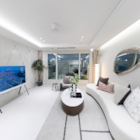
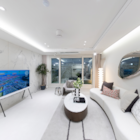
수정14

diff --git a/skin.js b/skin.js
@@ -1,7 +1,7 @@
 // Garden Gnome Software - Skin
 // Pano2VR 7.0.10/20025
 // Filename: ??VR ?? - ?????.ggsk
-// Generated 2024-03-28T17:35:34
+// Generated 2024-03-28T17:51:03
 
 function pano2vrSkin(player,base) {
 	player.addVariable('vis_dropdown', 2, false, { ignoreInState: 0  });
@@ -694,7 +694,7 @@ function pano2vrSkin(player,base) {
 		}
 		me._text_1b.logicBlock_textcolor();
 		me._text_1b.onclick=function (e) {
-			player.openNext("{node17}","");
+			player.openNext("{node12}","");
 		}
 		me._text_1b.ggUpdatePosition=function (useTransition) {
 		}
@@ -4863,7 +4863,7 @@ function pano2vrSkin(player,base) {
 		hs+='height : 30px;';
 		hs+='left : calc(50% - ((100% + 0px) / 2) + 0px);';
 		hs+='position : absolute;';
-		hs+='top : 90px;';
+		hs+='top : 180px;';
 		hs+='visibility : inherit;';
 		hs+='width : 100%;';
 		hs+='pointer-events:none;';
@@ -5671,7 +5671,7 @@ function pano2vrSkin(player,base) {
 		hs+='height : 30px;';
 		hs+='left : calc(50% - ((100% + 0px) / 2) + 0px);';
 		hs+='position : absolute;';
-		hs+='top : 180px;';
+		hs+='top : 90px;';
 		hs+='visibility : inherit;';
 		hs+='width : 100%;';
 		hs+='pointer-events:none;';
@@ -14685,7 +14685,7 @@ function pano2vrSkin(player,base) {
 			me.elementMouseOver['external_2']=true;
 			me._text_6.logicBlock_alpha();
 			me._image_3.logicBlock_alpha();
-			me._lottie_4.logicBlock_alpha();
+			me._lottie_1.logicBlock_alpha();
 			me._rectangle_5.logicBlock_alpha();
 			me._rectangle_5.logicBlock_scaling();
 		}
@@ -14693,7 +14693,7 @@ function pano2vrSkin(player,base) {
 			me.elementMouseOver['external_2']=false;
 			me._text_6.logicBlock_alpha();
 			me._image_3.logicBlock_alpha();
-			me._lottie_4.logicBlock_alpha();
+			me._lottie_1.logicBlock_alpha();
 			me._rectangle_5.logicBlock_alpha();
 			me._rectangle_5.logicBlock_scaling();
 		}
@@ -14945,33 +14945,33 @@ function pano2vrSkin(player,base) {
 		me._image_3.ggUpdatePosition=function (useTransition) {
 		}
 		me._external_2.appendChild(me._image_3);
-		el=me._lottie_4=document.createElement('div');
+		el=me._lottie_1=document.createElement('div');
 		el.ggLottie = lottie.loadAnimation({
 			container: el,
-			path: basePath + 'images/lottie_4.json',
+			path: basePath + 'images/lottie_1.json',
 			autoplay: true,
 			loop: 0,
 			rendererSettings: {
 				preserveAspectRatio: 'xMinYMin meet'
 			}
 		});
-		el.ggId="Lottie 4";
+		el.ggId="Lottie 1";
 		el.ggParameter={ rx:0,ry:0,a:0,sx:1,sy:1,def:'' };
 		el.ggVisible=true;
 		el.className="ggskin ggskin_lottie ";
 		el.ggType='lottie';
 		hs ='';
 		hs+='background : rgba(0,0,0,0);';
-		hs+='height : 60px;';
-		hs+='left : 0px;';
+		hs+='height : 102px;';
+		hs+='left : -5px;';
 		hs+='position : absolute;';
 		hs+='top : -20px;';
 		hs+='visibility : inherit;';
-		hs+='width : 60px;';
+		hs+='width : 102px;';
 		hs+='pointer-events:auto;';
 		el.setAttribute('style',hs);
 		el.style.transformOrigin='50% 50%';
-		me._lottie_4.ggIsActive=function() {
+		me._lottie_1.ggIsActive=function() {
 			if ((this.parentNode) && (this.parentNode.ggIsActive)) {
 				return this.parentNode.ggIsActive();
 			}
@@ -14983,7 +14983,7 @@ function pano2vrSkin(player,base) {
 			}
 			return me.ggNodeId;
 		}
-		me._lottie_4.logicBlock_position = function() {
+		me._lottie_1.logicBlock_position = function() {
 			var newLogicStatePosition;
 			if (
 				((player.getVariableValue('vis_icon') == true))
@@ -14994,21 +14994,21 @@ function pano2vrSkin(player,base) {
 			else {
 				newLogicStatePosition = -1;
 			}
-			if (me._lottie_4.ggCurrentLogicStatePosition != newLogicStatePosition) {
-				me._lottie_4.ggCurrentLogicStatePosition = newLogicStatePosition;
-				me._lottie_4.style.transition='left 800ms linear 0ms, top 800ms linear 0ms, opacity 0s';
-				if (me._lottie_4.ggCurrentLogicStatePosition == 0) {
-					me._lottie_4.style.left='0px';
-					me._lottie_4.style.top='0px';
+			if (me._lottie_1.ggCurrentLogicStatePosition != newLogicStatePosition) {
+				me._lottie_1.ggCurrentLogicStatePosition = newLogicStatePosition;
+				me._lottie_1.style.transition='left 800ms linear 0ms, top 800ms linear 0ms, opacity 0s';
+				if (me._lottie_1.ggCurrentLogicStatePosition == 0) {
+					me._lottie_1.style.left='-5px';
+					me._lottie_1.style.top='0px';
 				}
 				else {
-					me._lottie_4.style.left='0px';
-					me._lottie_4.style.top='-20px';
+					me._lottie_1.style.left='-5px';
+					me._lottie_1.style.top='-20px';
 				}
 			}
 		}
-		me._lottie_4.logicBlock_position();
-		me._lottie_4.logicBlock_alpha = function() {
+		me._lottie_1.logicBlock_position();
+		me._lottie_1.logicBlock_alpha = function() {
 			var newLogicStateAlpha;
 			if (
 				((me.elementMouseOver['external_2'] == true))
@@ -15019,23 +15019,23 @@ function pano2vrSkin(player,base) {
 			else {
 				newLogicStateAlpha = -1;
 			}
-			if (me._lottie_4.ggCurrentLogicStateAlpha != newLogicStateAlpha) {
-				me._lottie_4.ggCurrentLogicStateAlpha = newLogicStateAlpha;
-				me._lottie_4.style.transition='left 800ms linear 0ms, top 800ms linear 0ms, opacity 0s';
-				if (me._lottie_4.ggCurrentLogicStateAlpha == 0) {
-					me._lottie_4.style.visibility="hidden";
-					me._lottie_4.style.opacity=0;
+			if (me._lottie_1.ggCurrentLogicStateAlpha != newLogicStateAlpha) {
+				me._lottie_1.ggCurrentLogicStateAlpha = newLogicStateAlpha;
+				me._lottie_1.style.transition='left 800ms linear 0ms, top 800ms linear 0ms, opacity 0s';
+				if (me._lottie_1.ggCurrentLogicStateAlpha == 0) {
+					me._lottie_1.style.visibility="hidden";
+					me._lottie_1.style.opacity=0;
 				}
 				else {
-					me._lottie_4.style.visibility=me._lottie_4.ggVisible?'inherit':'hidden';
-					me._lottie_4.style.opacity=1;
+					me._lottie_1.style.visibility=me._lottie_1.ggVisible?'inherit':'hidden';
+					me._lottie_1.style.opacity=1;
 				}
 			}
 		}
-		me._lottie_4.logicBlock_alpha();
-		me._lottie_4.ggUpdatePosition=function (useTransition) {
+		me._lottie_1.logicBlock_alpha();
+		me._lottie_1.ggUpdatePosition=function (useTransition) {
 		}
-		me._external_2.appendChild(me._lottie_4);
+		me._external_2.appendChild(me._lottie_1);
 		el=me._rectangle_5=document.createElement('div');
 		el.ggId="Rectangle 5";
 		el.ggParameter={ rx:0,ry:0,a:0,sx:1,sy:1,def:'' };
@@ -15196,18 +15196,18 @@ function pano2vrSkin(player,base) {
 		me._text_6.logicBlock_alpha();
 		me._image_3.logicBlock_position();
 		me._image_3.logicBlock_alpha();
-		me._lottie_4.logicBlock_position();
-		me._lottie_4.logicBlock_alpha();
+		me._lottie_1.logicBlock_position();
+		me._lottie_1.logicBlock_alpha();
 		me._rectangle_5.logicBlock_scaling();
 		me._rectangle_5.logicBlock_visible();
 		me._rectangle_5.logicBlock_alpha();
 			me.ggEvent_changenode=function() {
 				me._image_3.logicBlock_position();
-				me._lottie_4.logicBlock_position();
+				me._lottie_1.logicBlock_position();
 			};
 			me.ggEvent_configloaded=function() {
 				me._image_3.logicBlock_position();
-				me._lottie_4.logicBlock_position();
+				me._lottie_1.logicBlock_position();
 			};
 			me.ggEvent_sizechanged=function() {
 				me._ht_node.logicBlock_scaling();
@@ -15215,7 +15215,7 @@ function pano2vrSkin(player,base) {
 			};
 			me.ggEvent_varchanged_vis_icon=function() {
 				me._image_3.logicBlock_position();
-				me._lottie_4.logicBlock_position();
+				me._lottie_1.logicBlock_position();
 			};
 			me.__div = me._ht_node;
 	};

diff --git a/index.html b/index.html
@@ -36,9 +36,9 @@
 	</head>
 	<body>
 <!-- - - - - - - 8<- - - - - - cut here - - - - - 8<- - - - - - - -->
-		<script type="text/javascript" src="pano2vr_player.js?ts=14934968">
+		<script type="text/javascript" src="pano2vr_player.js?ts=15864168">
 		</script>
-		<script type="text/javascript" src="skin.js?ts=14934968">
+		<script type="text/javascript" src="skin.js?ts=15864168">
 		</script>
 		<script src="3rdparty/lottie/lottie.min.js"></script>
 		<div id="container" style="width:100%;height:100%;overflow:hidden;">
@@ -90,12 +90,12 @@
 			pano=new pano2vrPlayer("container");
 			pano.startNode = startNode;
 			pano.startView = startView;
-			pano.setQueryParameter("ts=14934968")
+			pano.setQueryParameter("ts=15864168")
 			// add the skin object
 			skin=new pano2vrSkin(pano);
 			// load the configuration
 			window.addEventListener("load", function() {
-				pano.readConfigUrlAsync("pano.xml?ts=14934968");
+				pano.readConfigUrlAsync("pano.xml?ts=15864168");
 			});
 			if (window.navigator.userAgent.match(/Safari/i)) {
 				// fix for white borders, rotation on iPhone
